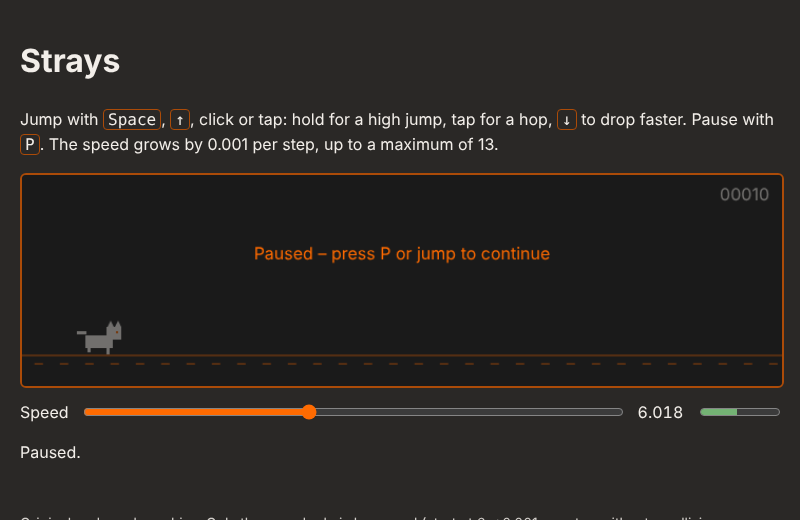
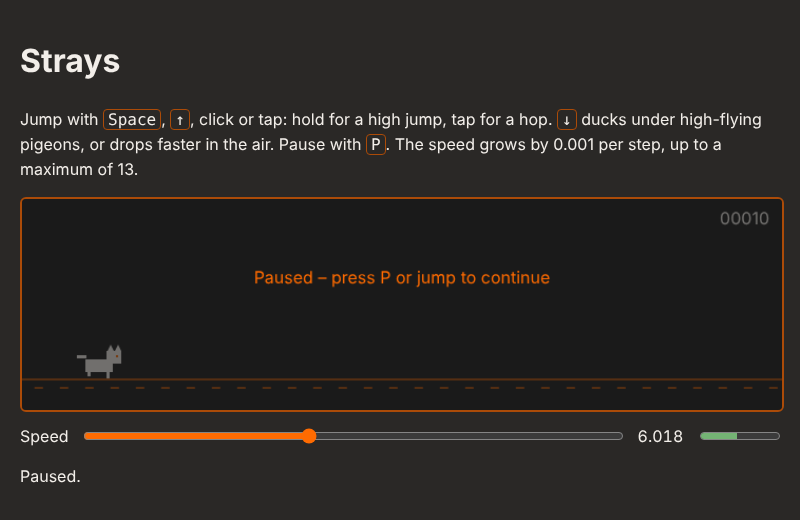
Add box stacks, box rows, pigeons and ducking (spec 08)
New obstacle types unlock with the current speed: box stacks from 7,
box rows from 8 and pigeons from 9, flying low (jump) or high (duck).
Arrow down on the ground ducks the cat with a smaller hitbox; in the air
it still drops faster. The collision check is now a full rectangle
overlap so the cat can pass under flying obstacles. After any new type
comes a single box, and gaps start behind an obstacle's far edge.

The behaviour test adds a scripted player that knows where every
obstacle is: at speed 5 it only meets single boxes, at speed 13 it meets
all four types and survives (60 s by default, BOT_SECONDS=300 passed).

Claude-Session: https://claude.ai/code/session_01WwwZG2Szd8R3ngBsM1TLoc

diff --git a/game.js b/game.js
@@ -15,7 +15,19 @@
   const JUMP_VELOCITY = -11;
   const SHORT_JUMP_GRAVITY = 2; // factor once the jump input is released while rising
   const FAST_FALL_GRAVITY = 3; // factor after ↓ in the air, until landing
-  const COLORS = { cat: '#f2eee9', box: '#c98a4b', edge: '#ab4b08', ground: '#ab4b08', text: '#f2eee9', accent: '#ff6b01', dim: 'rgba(27, 27, 27, 0.6)' };
+  const DUCK = { width: 40, height: 14 }; // the cat's size while ducking
+  const COLORS = {
+    cat: '#f2eee9', box: '#c98a4b', edge: '#ab4b08', ground: '#ab4b08', text: '#f2eee9', accent: '#ff6b01',
+    pigeon: '#a7a9b4', wing: '#7d8090', dim: 'rgba(27, 27, 27, 0.6)',
+  };
+  // Obstacle types, unlocked by the current speed (specs/08-obstacles.md)
+  const OBSTACLE_TYPES = [
+    { type: 'box', from: 0, weight: 2 },
+    { type: 'stack', from: 7, weight: 1 },
+    { type: 'row', from: 8, weight: 1 },
+    { type: 'pigeon', from: 9, weight: 1 },
+  ];
+  const PIGEON_LIFTS = [6, 20]; // space under the bird: low means jump, high means duck
   const HIGH_SCORE_KEY = 'strays.highScore';
 
   const playfield = document.getElementById('playfield');
@@ -34,7 +46,10 @@
     newRecord: false,
     cat: { x: 60, y: GROUND_Y, vy: 0, width: 34, height: 26, fastFall: false },
     jumpHeld: false, // Space, ↑ or a pointer is held down
-    boxes: [],
+    duckHeld: false, // ↓ is held down
+    obstacles: [],
+    lastType: 'box',
+    seenTypes: new Set(),
     distanceToNext: 0,
     groundOffset: 0,
   };
@@ -45,7 +60,9 @@
     state.speed = state.startSpeed;
     state.score = 0;
     state.newRecord = false;
-    state.boxes = [];
+    state.obstacles = [];
+    state.lastType = 'box';
+    state.seenTypes = new Set();
     state.distanceToNext = 300;
     state.cat.y = GROUND_Y;
     state.cat.vy = 0;
@@ -69,6 +86,44 @@
     if (state.phase === 'running' && state.cat.y < GROUND_Y) state.cat.fastFall = true;
   }
 
+  function isDucking() {
+    return state.duckHeld && state.cat.y === GROUND_Y;
+  }
+
+  function pickType() {
+    // After any of the harder types comes a plain box, so two of them never follow each other
+    if (state.lastType !== 'box') return 'box';
+    const open = OBSTACLE_TYPES.filter((option) => state.speed >= option.from);
+    let roll = Math.random() * open.reduce((sum, option) => sum + option.weight, 0);
+    for (const option of open) {
+      roll -= option.weight;
+      if (roll < 0) return option.type;
+    }
+    return 'box';
+  }
+
+  // An obstacle is one hitbox (x, width, height, lift above the ground); boxes are drawn from parts
+  function makeObstacle(type) {
+    const pick = (options) => options[Math.floor(Math.random() * options.length)];
+    if (type === 'stack') {
+      const height = pick([20, 23]);
+      const parts = [{ dx: 0, dy: 0, width: 26, height }, { dx: 3, dy: height, width: 20, height }];
+      return { type, x: WIDTH, width: 26, height: height * 2, lift: 0, parts };
+    }
+    if (type === 'row') {
+      const count = pick([2, 3]);
+      const height = pick([22, 30]);
+      const parts = Array.from({ length: count }, (_, i) => ({ dx: i * 20, dy: 0, width: 20, height }));
+      return { type, x: WIDTH, width: count * 20, height, lift: 0, parts };
+    }
+    if (type === 'pigeon') {
+      return { type, x: WIDTH, width: 30, height: 14, lift: pick(PIGEON_LIFTS), parts: [] };
+    }
+    const width = pick([18, 28, 38]);
+    const height = pick([22, 30, 38]);
+    return { type: 'box', x: WIDTH, width, height, lift: 0, parts: [{ dx: 0, dy: 0, width, height }] };
+  }
+
   function step() {
     const cat = state.cat;
     // Variable jump height: letting go while rising pulls the cat down sooner
@@ -82,16 +137,17 @@
       cat.fastFall = false;
     }
 
-    for (const box of state.boxes) box.x -= state.speed;
-    state.boxes = state.boxes.filter((box) => box.x + box.width > 0);
+    for (const obstacle of state.obstacles) obstacle.x -= state.speed;
+    state.obstacles = state.obstacles.filter((obstacle) => obstacle.x + obstacle.width > 0);
 
     state.distanceToNext -= state.speed;
     if (state.distanceToNext <= 0) {
-      const width = 18 + Math.floor(Math.random() * 3) * 10;
-      const height = 22 + Math.floor(Math.random() * 3) * 8;
-      state.boxes.push({ x: WIDTH, width, height });
-      // The gap grows with the speed so jumps stay possible
-      state.distanceToNext = state.speed * (45 + Math.random() * 50);
+      const obstacle = makeObstacle(pickType());
+      state.obstacles.push(obstacle);
+      state.lastType = obstacle.type;
+      state.seenTypes.add(obstacle.type);
+      // The gap starts behind the obstacle and grows with the speed, so every sequence stays clearable
+      state.distanceToNext = obstacle.width + state.speed * (45 + Math.random() * 50);
     }
 
     if (collides()) {
@@ -118,12 +174,16 @@
   function collides() {
     const cat = state.cat;
     const margin = 4; // a little forgiveness at the edges
+    const ducking = isDucking();
     const catLeft = cat.x + margin;
-    const catRight = cat.x + cat.width - margin;
+    const catRight = cat.x + (ducking ? DUCK.width : cat.width) - margin;
+    const catTop = cat.y - (ducking ? DUCK.height : cat.height) + margin;
     const catBottom = cat.y - margin;
-    return state.boxes.some((box) => {
-      const top = GROUND_Y - box.height;
-      return catRight > box.x && catLeft < box.x + box.width && catBottom > top;
+    // Full rectangle overlap: flying obstacles can be passed underneath
+    return state.obstacles.some((obstacle) => {
+      const bottom = GROUND_Y - obstacle.lift;
+      const top = bottom - obstacle.height;
+      return catRight > obstacle.x && catLeft < obstacle.x + obstacle.width && catBottom > top && catTop < bottom;
     });
   }
 
@@ -160,7 +220,10 @@
       ctx.fillRect(x, GROUND_Y + 8, 8, 2);
     }
 
-    for (const box of state.boxes) drawBox(box);
+    for (const obstacle of state.obstacles) {
+      if (obstacle.type === 'pigeon') drawPigeon(obstacle);
+      else for (const part of obstacle.parts) drawBox(obstacle.x + part.dx, GROUND_Y - part.dy - part.height, part.width, part.height);
+    }
     drawCat(state.cat);
 
     ctx.fillStyle = COLORS.text;
@@ -190,6 +253,20 @@
     const running = state.phase === 'running' && cat.y === GROUND_Y;
     const stride = running && Math.floor(state.score / 3) % 2 === 0;
     ctx.fillStyle = COLORS.cat;
+    if (isDucking()) {
+      ctx.fillRect(x, y - 10, 30, 8); // body, stretched low
+      ctx.fillRect(x + 28, y - 14, 12, 10); // head
+      ctx.beginPath(); // ears, folded back
+      ctx.moveTo(x + 28, y - 14); ctx.lineTo(x + 29, y - 18); ctx.lineTo(x + 33, y - 14);
+      ctx.moveTo(x + 34, y - 14); ctx.lineTo(x + 36, y - 18); ctx.lineTo(x + 39, y - 14);
+      ctx.fill();
+      ctx.fillRect(x - 8, y - 8, 9, 3); // tail
+      ctx.fillRect(x + 2, y - 2, 3, 2); // legs
+      ctx.fillRect(x + 24, y - 2, 3, 2);
+      ctx.fillStyle = COLORS.accent;
+      ctx.fillRect(x + 35, y - 11, 2, 2); // eye
+      return;
+    }
     ctx.fillRect(x, y - 18, 26, 12); // body
     ctx.fillRect(x + 20, y - 26, 14, 12); // head
     ctx.beginPath(); // ears
@@ -203,17 +280,36 @@
     ctx.fillRect(x + 29, y - 22, 2, 2); // eye
   }
 
-  function drawBox(box) {
-    const top = GROUND_Y - box.height;
+  function drawBox(x, top, width, height) {
     ctx.fillStyle = COLORS.box;
-    ctx.fillRect(box.x, top, box.width, box.height);
+    ctx.fillRect(x, top, width, height);
     ctx.strokeStyle = COLORS.edge;
     ctx.lineWidth = 2;
-    ctx.strokeRect(box.x + 1, top + 1, box.width - 2, box.height - 2);
+    ctx.strokeRect(x + 1, top + 1, width - 2, height - 2);
     ctx.beginPath();
-    ctx.moveTo(box.x + box.width / 2, top);
-    ctx.lineTo(box.x + box.width / 2, top + 6);
+    ctx.moveTo(x + width / 2, top);
+    ctx.lineTo(x + width / 2, top + 6);
     ctx.stroke();
+  }
+
+  function drawPigeon(pigeon) {
+    const x = pigeon.x;
+    const top = GROUND_Y - pigeon.lift - pigeon.height;
+    const wingsUp = Math.floor(x / 24) % 2 === 0; // flaps as it travels
+    ctx.fillStyle = COLORS.pigeon;
+    ctx.fillRect(x + 6, top + 4, 20, 9); // body
+    ctx.fillRect(x, top + 2, 9, 7); // head, facing the cat
+    ctx.fillRect(x + 24, top + 6, 6, 4); // tail
+    ctx.fillStyle = COLORS.wing;
+    ctx.beginPath();
+    ctx.moveTo(x + 10, top + 6);
+    ctx.lineTo(x + 17, wingsUp ? top - 6 : top + 16);
+    ctx.lineTo(x + 22, top + 6);
+    ctx.fill();
+    ctx.fillStyle = COLORS.accent;
+    ctx.fillRect(x - 3, top + 5, 3, 2); // beak
+    ctx.fillStyle = COLORS.edge;
+    ctx.fillRect(x + 3, top + 4, 2, 2); // eye
   }
 
   // --- Readout and slider ---
@@ -249,11 +345,14 @@
     }
     if (event.code === 'ArrowDown') {
       event.preventDefault();
+      // ↓ ducks on the ground and drops faster in the air
+      state.duckHeld = true;
       fastFall();
     }
   });
   document.addEventListener('keyup', (event) => {
     if (event.code === 'Space' || event.code === 'ArrowUp') state.jumpHeld = false;
+    if (event.code === 'ArrowDown') state.duckHeld = false;
   });
   playfield.addEventListener('pointerdown', (event) => {
     event.preventDefault();
@@ -273,6 +372,7 @@
   });
   window.addEventListener('blur', () => {
     release(); // the key-up may never arrive once focus is gone
+    state.duckHeld = false;
     pause();
   });
 
@@ -315,6 +415,9 @@
     get speed() { return state.speed; },
     get phase() { return state.phase; },
     get catY() { return state.cat.y; },
+    get ducking() { return isDucking(); },
+    get obstacles() { return state.obstacles.map(({ type, x, width, height, lift }) => ({ type, x, width, height, lift })); },
+    get obstacleTypes() { return [...state.seenTypes]; },
     get score() { return Math.floor(state.score); },
     get highScore() { return state.highScore; },
   };

diff --git a/index.html b/index.html
@@ -12,13 +12,13 @@
     <main>
       <h1>Strays</h1>
       <p>
-        Jump with <kbd>Space</kbd>, <kbd>↑</kbd>, click or tap: hold for a high jump, tap for a hop,
-        <kbd>↓</kbd> to drop faster. Pause with <kbd>P</kbd>. The speed grows by 0.001 per step, up to
-        a maximum of 13.
+        Jump with <kbd>Space</kbd>, <kbd>↑</kbd>, click or tap: hold for a high jump, tap for a hop.
+        <kbd>↓</kbd> ducks under high-flying pigeons, or drops faster in the air. Pause with
+        <kbd>P</kbd>. The speed grows by 0.001 per step, up to a maximum of 13.
       </p>
 
       <canvas id="playfield" width="720" height="200" tabindex="0"
-        aria-label="Playfield: a cat runs to the right and jumps over boxes. Press Space to jump.">
+        aria-label="Playfield: a cat runs to the right, jumps over boxes and ducks under pigeons. Press Space to jump, arrow down to duck.">
       </canvas>
 
       <div class="controls">

diff --git a/specs/08-obstacles.md b/specs/08-obstacles.md
@@ -23,17 +23,23 @@ Sizes and heights are tuned in play tests; the numbers above are upper limits.
   on landing, the cat lands ducked.
 - The high pigeon flies with its lowest point above 16 px over the ground, so a ducked cat passes
   and a standing cat does not.
-- The collision check must become a full rectangle overlap. Today `collides()` only compares the
-  cat's bottom with the box top, which is enough for ground obstacles but not for flying ones.
+- The collision check is a full rectangle overlap. Before 08, `collides()` only compared the cat's
+  bottom with the box top, which is enough for ground obstacles but not for flying ones.
 
 ## Spawning and fairness
 
-- Each spawn picks a type at random among the unlocked ones; single boxes stay the most common
-  (at least 40 %).
-- Two newly unlocked types never follow each other directly.
-- The minimum gap after an obstacle depends on its width and the speed, so that every sequence can
-  be cleared with the jump from 07. The gap formula stays proportional to the speed, as today.
+- Each spawn picks a type at random among the unlocked ones, single boxes weighted double; single
+  boxes stay the most common (at least 40 %, in practice over 60 %).
+- After any of the new types comes a single box, so two of them never follow each other directly.
+- The gap is measured from the far edge of an obstacle and grows with the speed
+  (width + speed × 45 to 95 steps), so that every sequence can be cleared with the jump from 07.
 - After a restart with the slider set high, all types up to that speed are available at once.
+
+## Edge cases
+
+- Moving the slider **up** during a run makes obstacles that were already spaced for the lower
+  speed arrive too close together. This was already true for the single boxes and is accepted: the
+  fairness promise holds for runs where the speed only grows by the rule.
 
 ## Interaction with the speed rule
 
@@ -42,11 +48,13 @@ changes it. Hitting any obstacle is a collision in the sense of rule 3.
 
 ## Acceptance criteria
 
-- [ ] `window.strays.obstacleTypes` lists the types seen in the current run.
-- [ ] Below speed 7 only single boxes appear (slider at 6, 20 s run).
-- [ ] At slider 13 all four types appear within 60 s.
-- [ ] Automated "perfect player" check: a scripted bot that knows the obstacle positions survives
-      5 minutes at speed 13, proving every sequence is clearable.
+- [x] `window.strays.obstacleTypes` lists the types seen in the current run.
+- [x] Below speed 7 only single boxes appear (slider at 5, 15 s run; at 5 the speed stays below 7
+      for over 30 s, while a start at 6 would pass 7 after about 17 s).
+- [x] At slider 13 all four types appear within 60 s.
+- [x] Automated "perfect player" check: a scripted bot that knows the obstacle positions survives
+      5 minutes at speed 13, proving every sequence is clearable. The test runs 60 s by default;
+      `BOT_SECONDS=300` runs the full 5 minutes (passed: 239 jumps, 13 ducks).
 
 ## Out of scope
 

diff --git a/README.md b/README.md
@@ -33,14 +33,16 @@ python3 -m http.server 8000
 ```
 
 Then open <http://localhost:8000/>. Jump with Space, arrow up, click or tap: hold for a high
-jump, tap for a hop, arrow down to drop faster. Pause with P.
+jump, tap for a hop. Arrow down ducks under high-flying pigeons, or drops faster in the air. Pause
+with P. From speed 7 on, box stacks, box rows and pigeons join the single boxes.
 The game also pauses by itself when you switch tabs.
 
 ## Test
 
 `test/test-game.mjs` checks the behaviour with Playwright (increase per second, freeze on
 collision, restart at 6, cap at 13, high score kept across a reload and without storage, no speed growth while paused,
-hop lower than a held jump, faster landing with arrow down) and saves screenshots:
+hop lower than a held jump, faster landing with arrow down, a scripted player surviving all obstacle
+types at speed 13) and saves screenshots. `BOT_SECONDS` sets that run's length (default 60):
 
 ```bash
 npm i playwright-core

diff --git a/specs/07-jump-control.md b/specs/07-jump-control.md
@@ -41,9 +41,8 @@ None. Jump physics are freely designed (`SPEC.md`).
 - [x] A 50 ms key press gives a lower jump than a 400 ms press (`window.strays.catY` exposed;
       the peak is the smallest `catY` during the jump).
 - [x] ↓ in the air shortens the time until landing.
-- [ ] The tallest planned obstacle (08) is clearable with a full jump at speed 13. To be checked
-      with 08; measured so far: a tap reaches 60 px, a full jump 95 px, the planned box stack is at
-      most 46 px high.
+- [x] The tallest obstacle (08) is clearable with a full jump at speed 13: a full jump reaches
+      95 px, the box stack is at most 46 px high, and the scripted player in the test clears it.
 
 ## Out of scope
 

diff --git a/specs/README.md b/specs/README.md
@@ -43,7 +43,7 @@ bridge for the borrowed rule; everything in this folder is an original design.
 | 05 | [Day and night](05-day-night.md) | Polish | planned |
 | 06 | [High score](06-highscore.md) | Gameplay | done |
 | 07 | [Jump control](07-jump-control.md) | Gameplay | done |
-| 08 | [More obstacles](08-obstacles.md) | Gameplay | planned |
+| 08 | [More obstacles](08-obstacles.md) | Gameplay | done |
 | 09 | [Treats](09-treats.md) | Gameplay | planned |
 
 ## Recommended order
